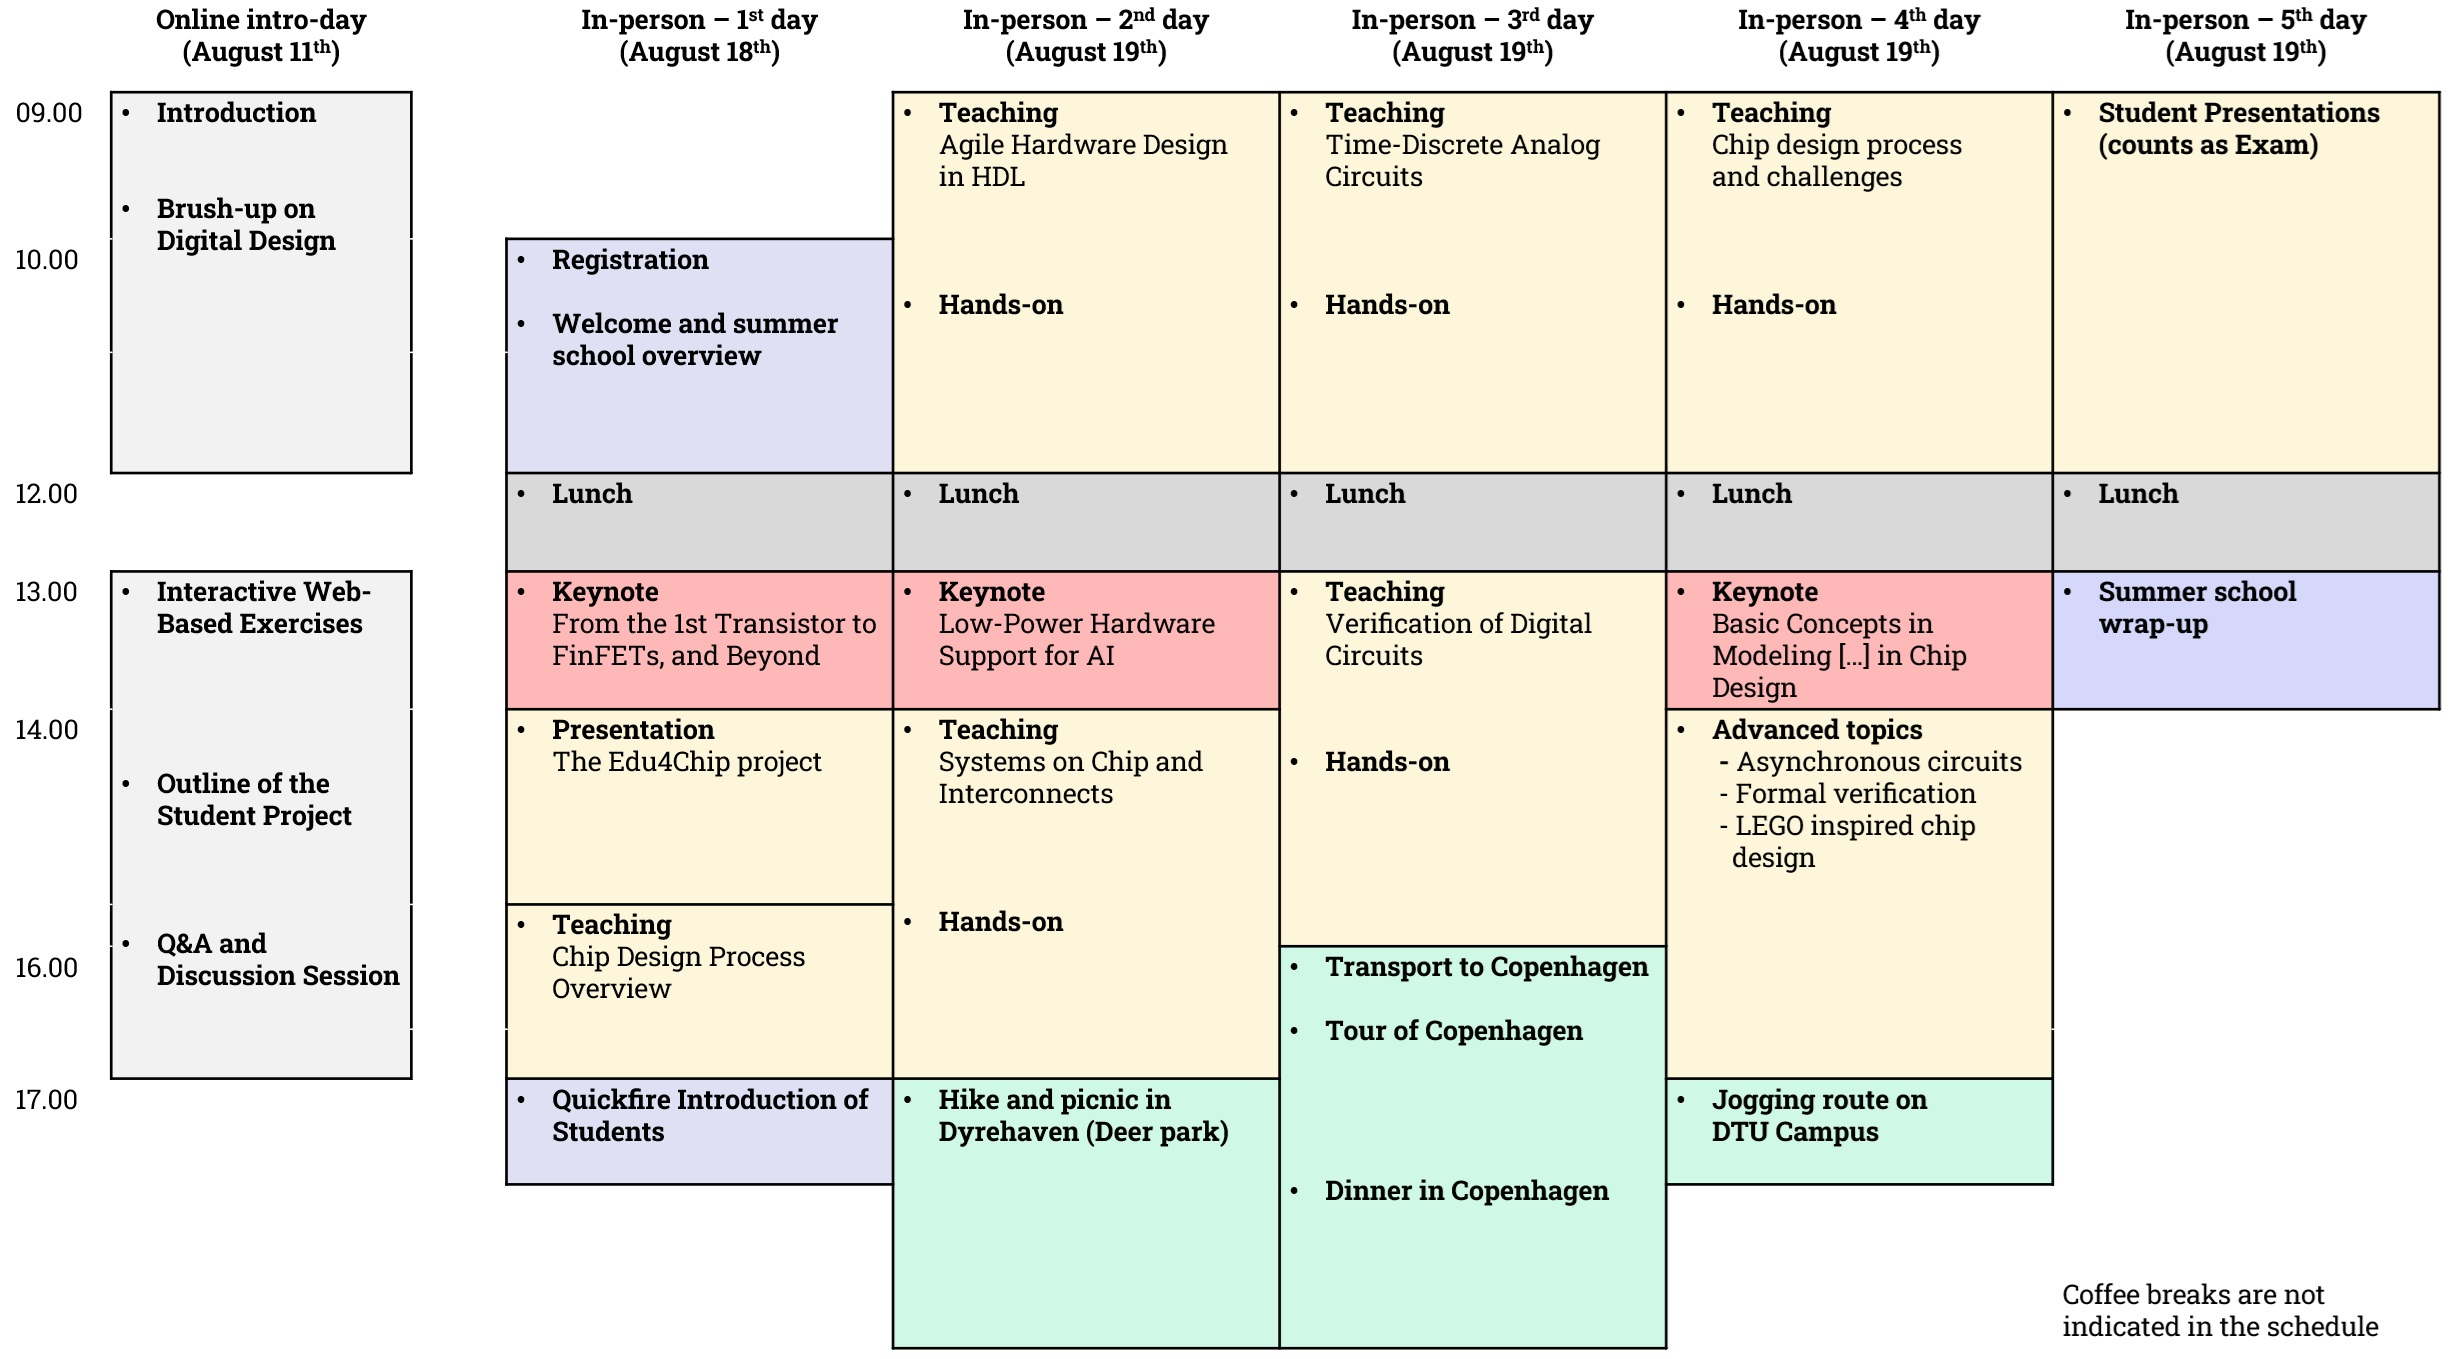
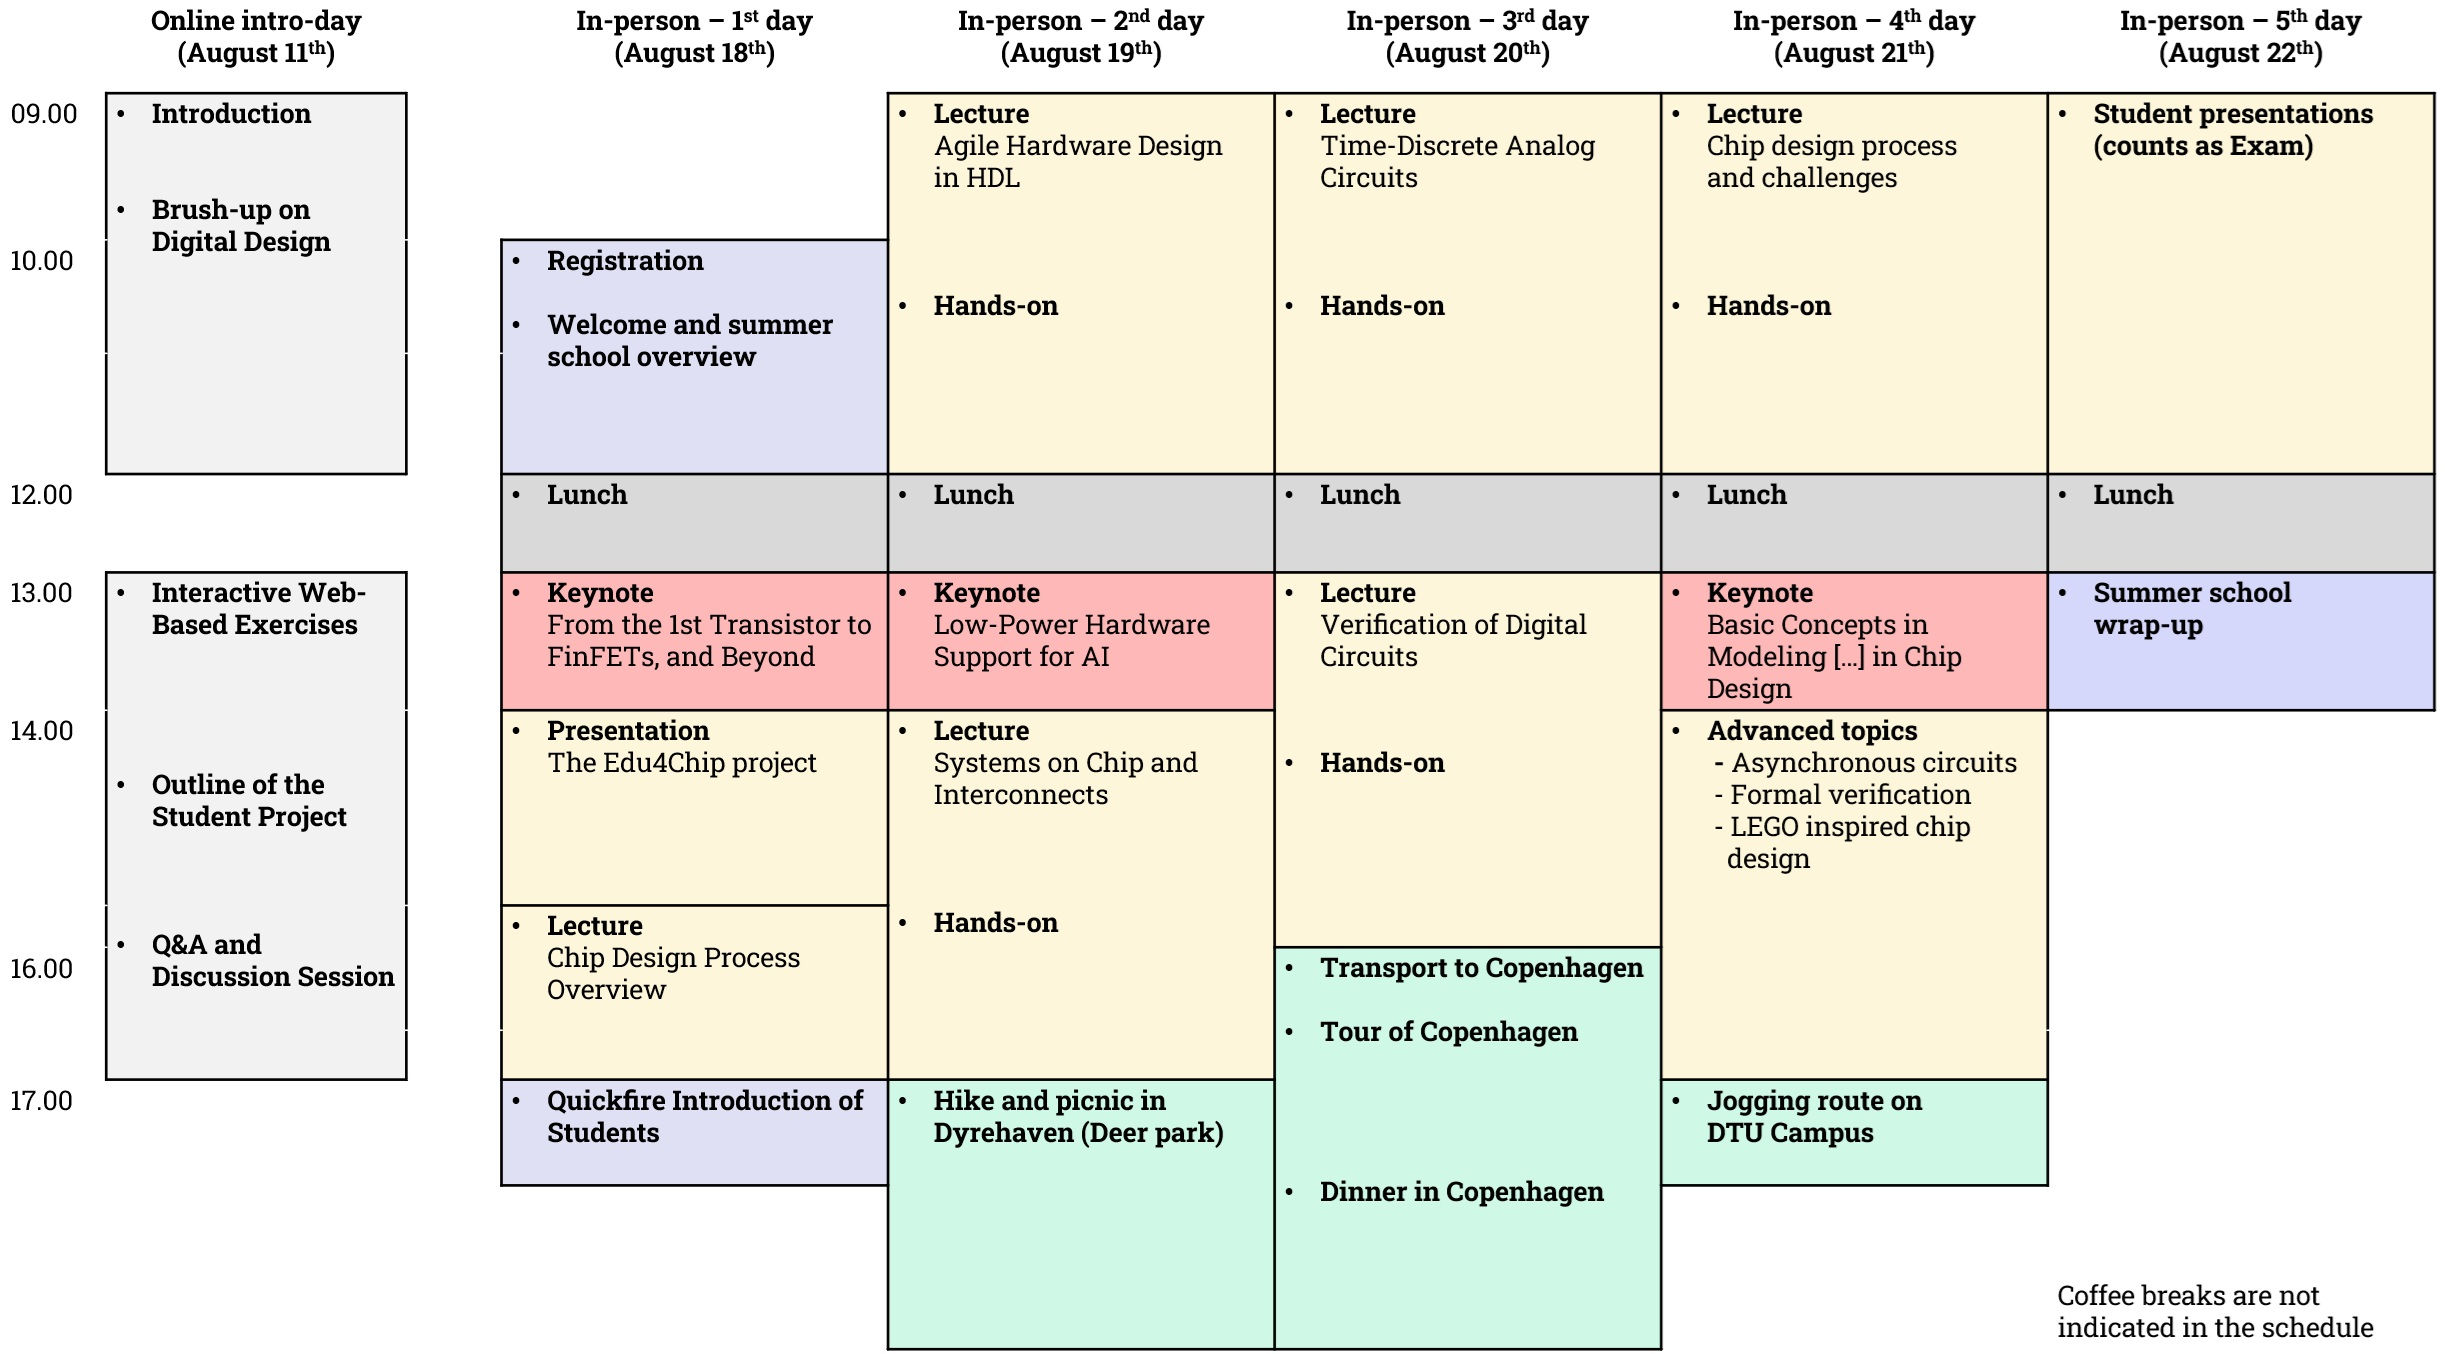
Updated summer school program.

diff --git a/summer2025.html b/summer2025.html
@@ -342,7 +342,7 @@
 								<li style="margin-top: 1em;">
 									<strong>Verification of Digital Circuits</strong>
 									<br>
-									<i>by the company Syosil</i>
+									<i>by Syosil</i>
 									<br>
 									This lecture, delivered by experts from Syosil, a Danish company specializing in verification solutions, covers the verification of digital circuits, focusing on methodologies and tools used to ensure design correctness (simulation, formal verification, etc.).
 								</li>
@@ -391,7 +391,7 @@
 
 								<li style="margin-top: 1em;"> <strong>Low-Power Hardware Support for AI</strong>
 								</br>
-								<i>by the company Demant</i>
+								<i>by Evangelia Kasapaki and Vijay Kumar Bhat, from Demant</i>
 								</br>
 								This keynote presents and discusses hardware strategies for supporting AI applications on a constrained power budget, presented by experts from Demant, a leading company in hearing aid technology.
 								</li>
